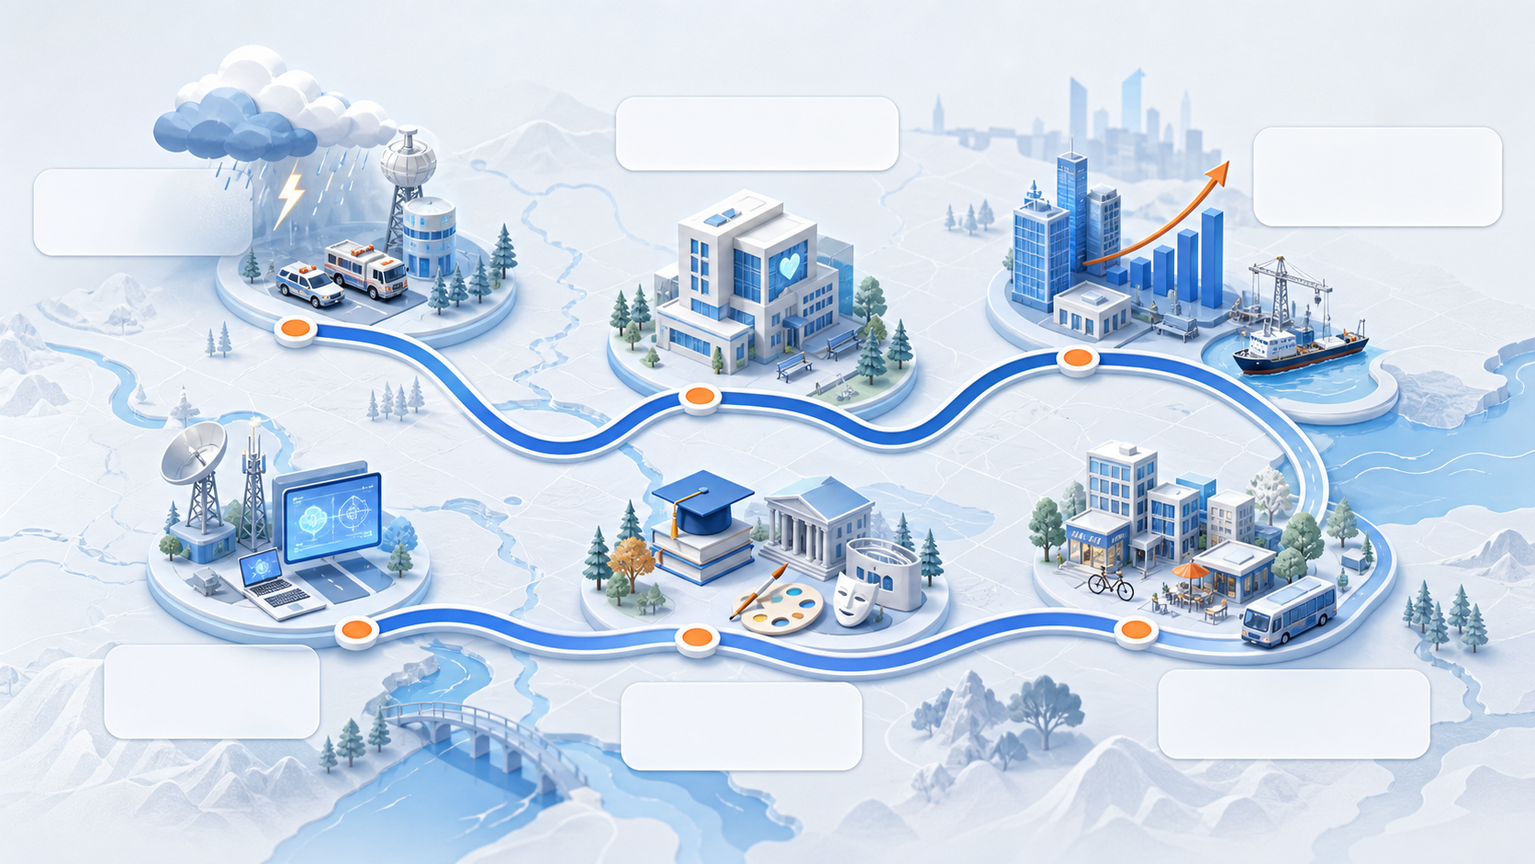
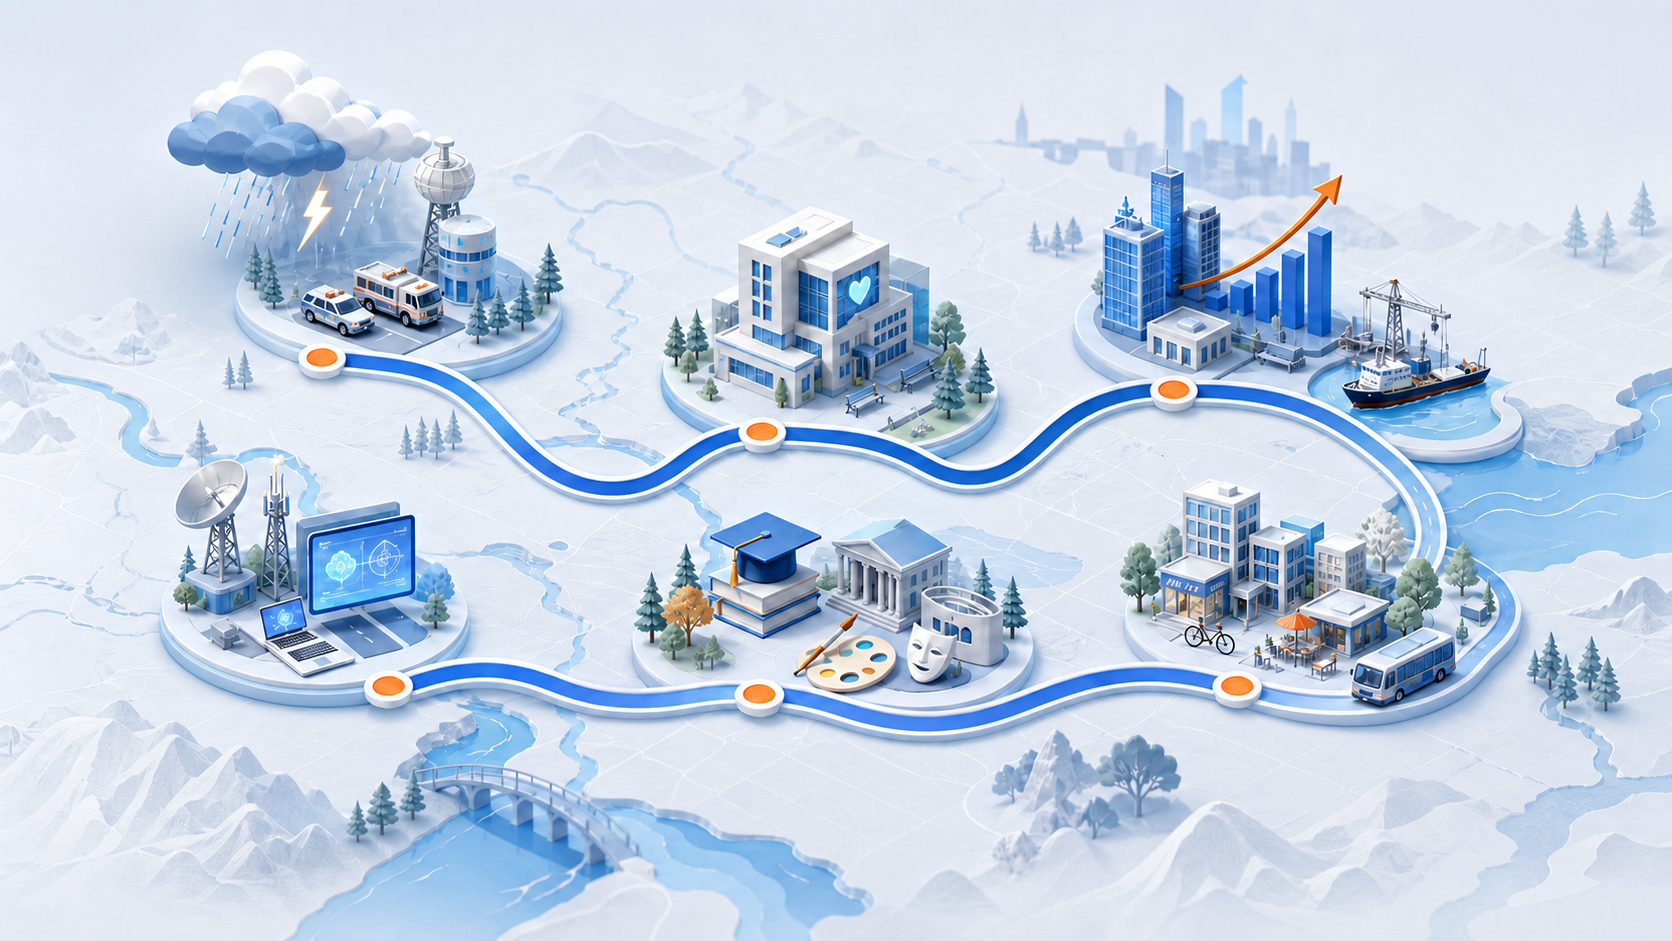
fix: stabilize news artwork and source links

diff --git a/wechat-content/tests/test_skill.py b/wechat-content/tests/test_skill.py
@@ -1,4 +1,4 @@
-import json, subprocess, sys, tempfile, unittest
+import hashlib, json, subprocess, sys, tempfile, unittest
 from pathlib import Path
 from PIL import Image
 
@@ -37,6 +37,19 @@ class WechatContentTests(unittest.TestCase):
             self.assertNotIn("images/项目-01.png",article)
             self.assertIn("7月19日国内新闻梳理",article)
             self.assertIn("信息来源与动态说明",article)
+            self.assertIn('<a href="https://example.com/news"',page)
+            self.assertIn("链接：https://example.com/news",page)
+
+    def test_news_overview_does_not_place_dynamic_labels_on_fixed_artwork(self):
+        fixture=json.loads((SKILL/"tests/fixtures/daily-news-content-package.json").read_text(encoding="utf-8"))
+        with tempfile.TemporaryDirectory() as temp:
+            source_a=Path(temp)/"a.json"; source_b=Path(temp)/"b.json"
+            source_a.write_text(json.dumps(fixture,ensure_ascii=False),encoding="utf-8")
+            fixture["items"][0]["category"]="technology"
+            source_b.write_text(json.dumps(fixture,ensure_ascii=False),encoding="utf-8")
+            out_a=self.build(source_a,temp+"-a"); out_b=self.build(source_b,temp+"-b")
+            digest=lambda path: hashlib.sha256(path.read_bytes()).hexdigest()
+            self.assertEqual(digest(out_a/"images/新闻一日脉络.png"),digest(out_b/"images/新闻一日脉络.png"))
 
     def test_github_uses_project_template(self):
         with tempfile.TemporaryDirectory() as temp:

diff --git a/wechat-content/scripts/rendering.py b/wechat-content/scripts/rendering.py
@@ -185,16 +185,6 @@ def news_overview_card(size, items, palette, base_path=None):
     draw.text((68, 62), "昨日新闻 · 一日脉络", font=font(38, True), fill=ink)
     draw.text((70, 118), "从事实出发，看见变化之间的联系", font=font(22), fill=primary)
     if base_path and Path(base_path).exists():
-        category_names = {"society": "社会民生", "politics": "时政", "finance": "财经", "technology": "科技", "international": "国际", "sports": "体育", "culture": "文化"}
-        usable = items[:6]
-        positions = ((84, 207), (390, 175), (724, 198), (934, 326), (676, 472), (267, 458))
-        for index, item in enumerate(usable):
-            x, y = positions[index]
-            category = category_names.get(item.get("category"), item.get("category") or "新闻")
-            label = f"{index + 1:02d}  {shorten(category, 5)}"
-            box_w = 184
-            draw.rounded_rectangle((x, y, x + box_w, y + 48), 18, fill="#FFFFFF", outline=primary, width=2)
-            draw.text((x + 14, y + 10), label, font=font(19, True), fill=ink)
         return image
     usable=items[:6]; start_x=115; end_x=width-115; y=375
     draw.line((start_x,y,end_x,y),fill=primary,width=12)
@@ -253,7 +243,9 @@ def build_article(payload: dict):
             lines += ["", "---", "", f"## {numerals[index-1] if index<=len(numerals) else index}、{item.get('title','')}", "", f"> **关键词：{keywords}**", "", "**发生了什么**", "", item.get("what_happened") or item.get("summary") or "待人工补充。", "", "**为什么重要**", "", item.get("why_it_matters") or "待人工补充：内容包未提供影响说明。", "", "**普通人需要注意什么**", "", item.get("reader_action") or "待人工补充：内容包未提供读者行动建议。", "", f"> **小清提醒：** {item.get('editor_note') or '发布前请结合原文补充准确、克制的提醒。'}"]
         follow_up=editorial.get("follow_up") or [shorten(item.get("title",""),28) for item in items[:3]]
         lines += ["", "## 今天值得关注", "", *[f"- {text}" for text in follow_up], "", "## 信息来源与动态说明", ""]
-        for index,item in enumerate(items,1): lines.append(f"{index}. [{item.get('source','原始来源')}：{item.get('title','')}]({item.get('url','')})")
+        for index,item in enumerate(items,1):
+            source_url=item.get("url","")
+            lines.append(f"{index}. [{item.get('source','原始来源')}：{item.get('title','')}]({source_url})｜链接：{source_url}")
         lines += ["", "> 本文依据公开资料整理。灾情、天气、市场和政策信息可能持续更新，请以有关部门最新通报为准。本文为“未完地图”人工审核包，尚未发布。", "", "![结尾图](images/结尾图.png)"]
         summary = editorial.get("summary") or f"梳理{date_label}值得继续关注的 {len(items)} 条国内新闻，说明发生了什么、为什么重要，以及普通人需要留意什么。"
     else:

diff --git a/wechat-content/references/daily-news.md b/wechat-content/references/daily-news.md
@@ -10,3 +10,5 @@
 - 不虚构影响；输入没有提供的判断不补写。
 - 结尾从热度转向长期影响，并邀请读者选择希望继续追踪的线索。
 - 正文图使用新闻节点、轨迹和观察视角，不生成虚构新闻现场或人物照片。Image 2 不可用时也必须生成有信息层级的脉络图，不得使用空白几何占位图。
+- Image 2 底图不得预留空白标签框，程序也不得按固定坐标叠加动态类别文字；具体新闻信息只在正文中表达，避免条目数量变化后错位。
+- 来源同时保留标准 `<a>` 超链接和可见原始网址。未认证公众号可能清除正文外链，网址文字作为人工复制与追溯的降级方案；不得声称 Skill 能绕过微信权限。

diff --git a/wechat-content/references/image2-workflow.md b/wechat-content/references/image2-workflow.md
@@ -9,7 +9,7 @@
 
 ## 更新底图
 
-1. 只生成无字主视觉，不包含日期、Logo、水印、产品界面或品牌标识。
+1. 只生成无字主视觉，不包含日期、Logo、水印、产品界面、品牌标识或等待程序填充的空白标签框。
 2. 新闻图表达多条公共信息之间的联系，GitHub 图表达探索开源项目，不可混用。
 3. 人工检查主体、裁切安全区和不当符号后，才可替换 `assets/` 中的底图。
 4. 重新运行 Skill，由本地程序制作 900×383 横版、383×383 方形及左长右方合并封面。